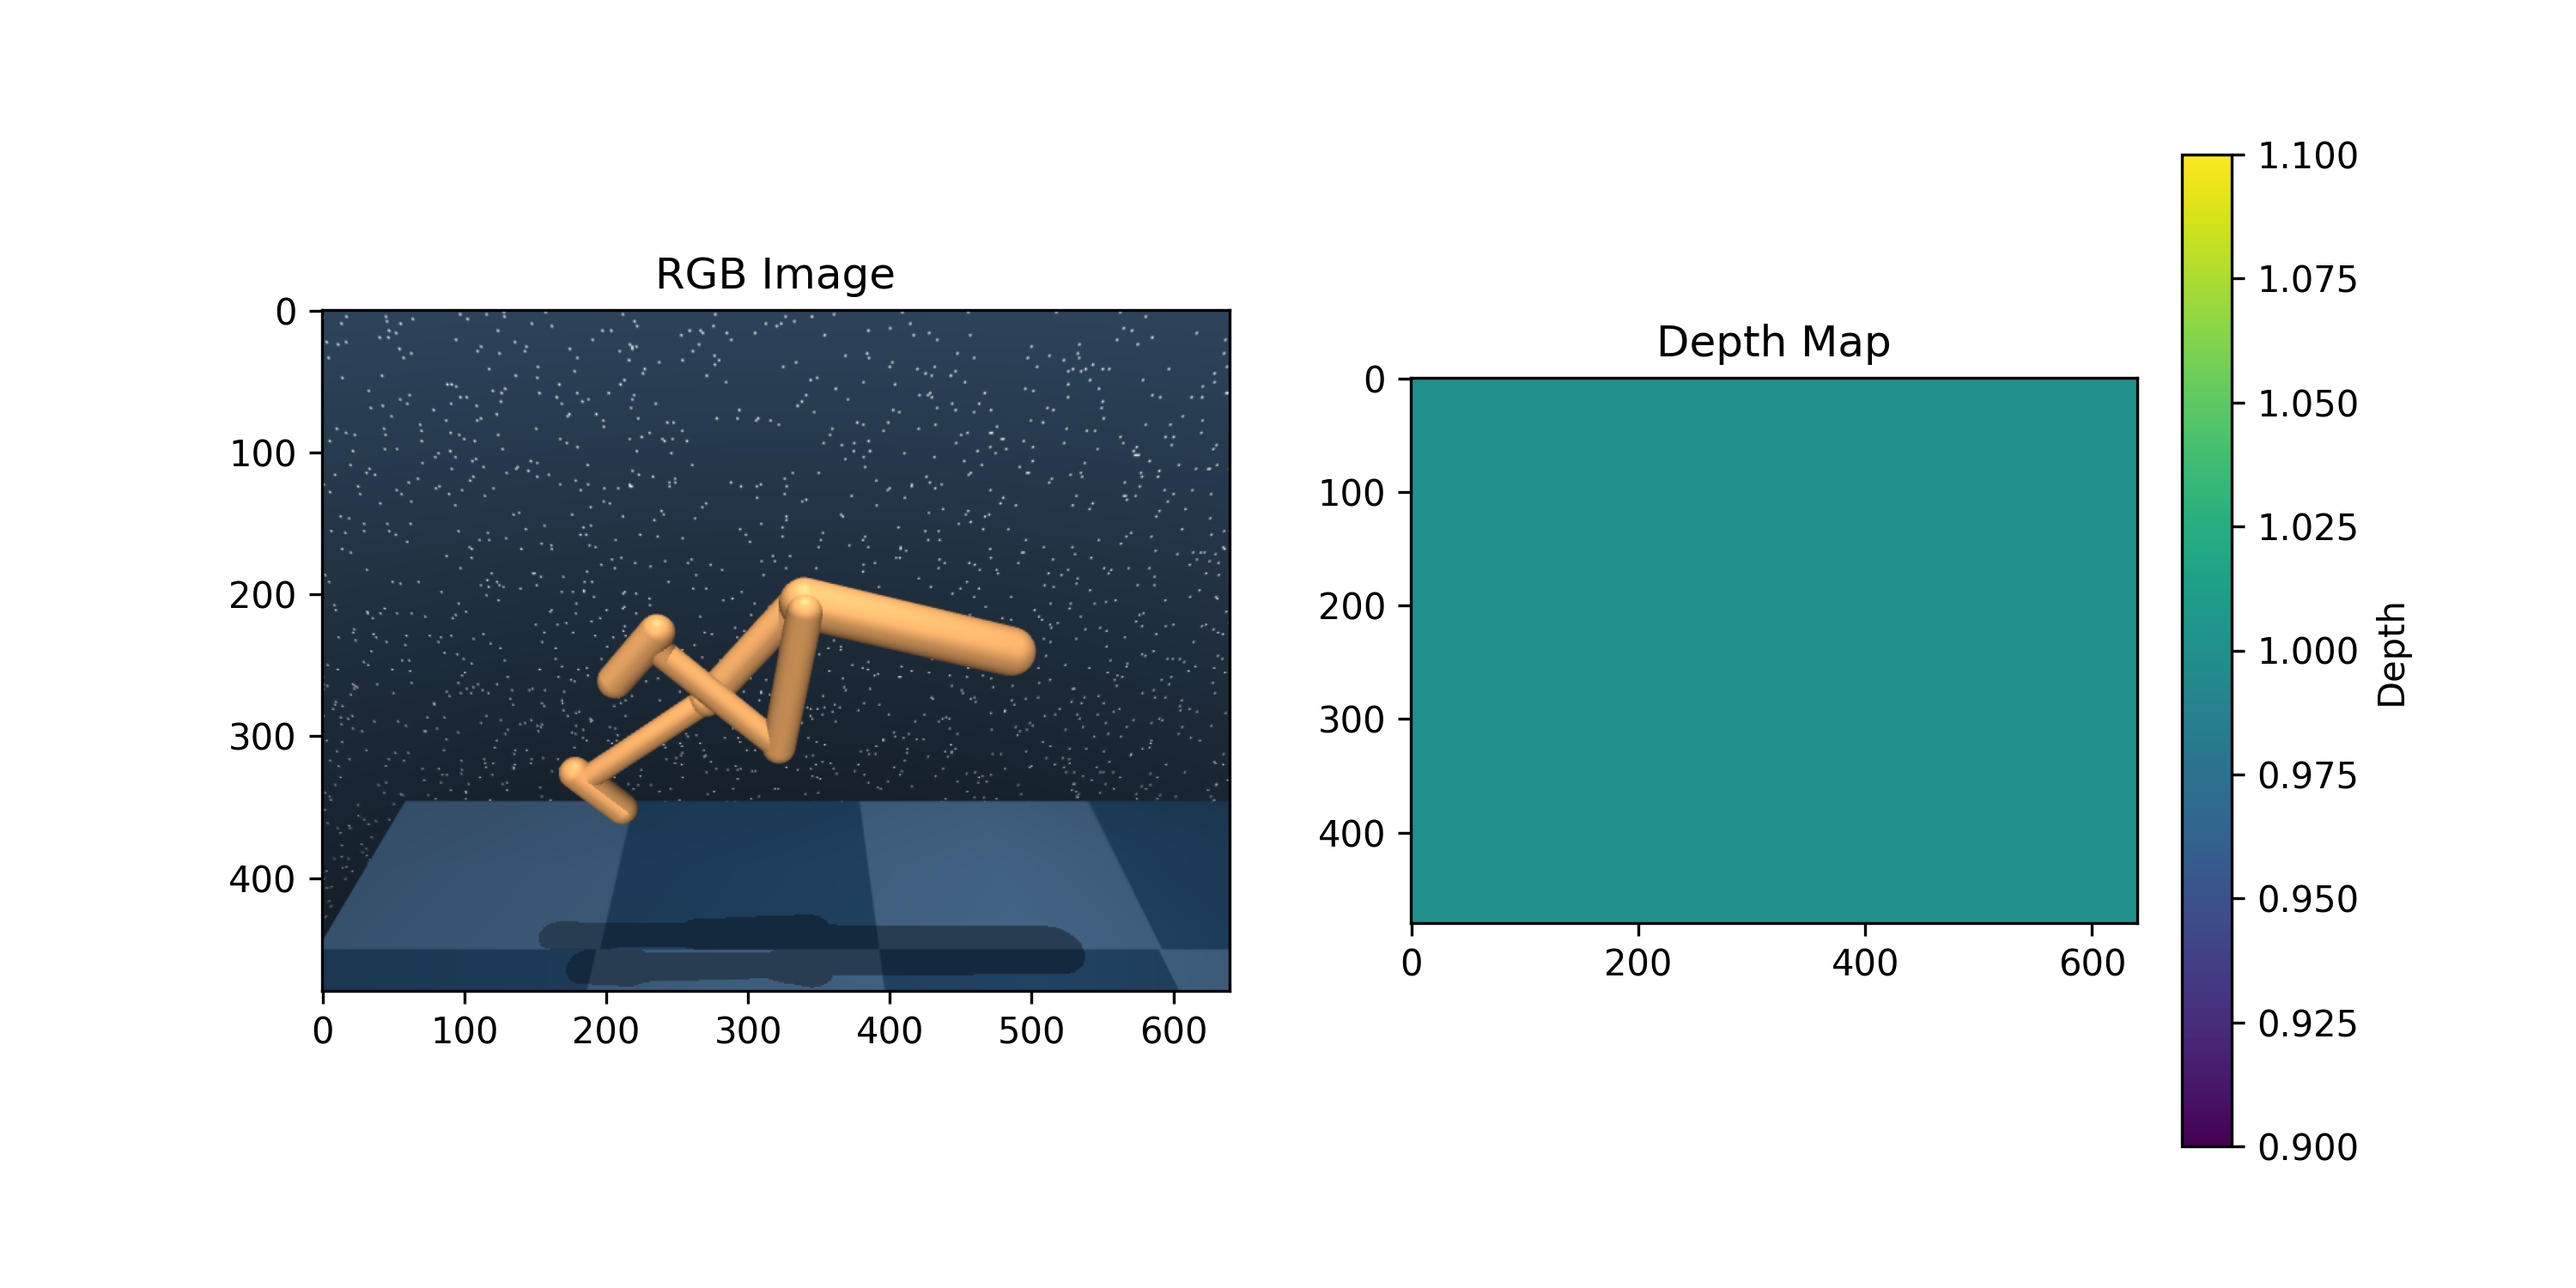
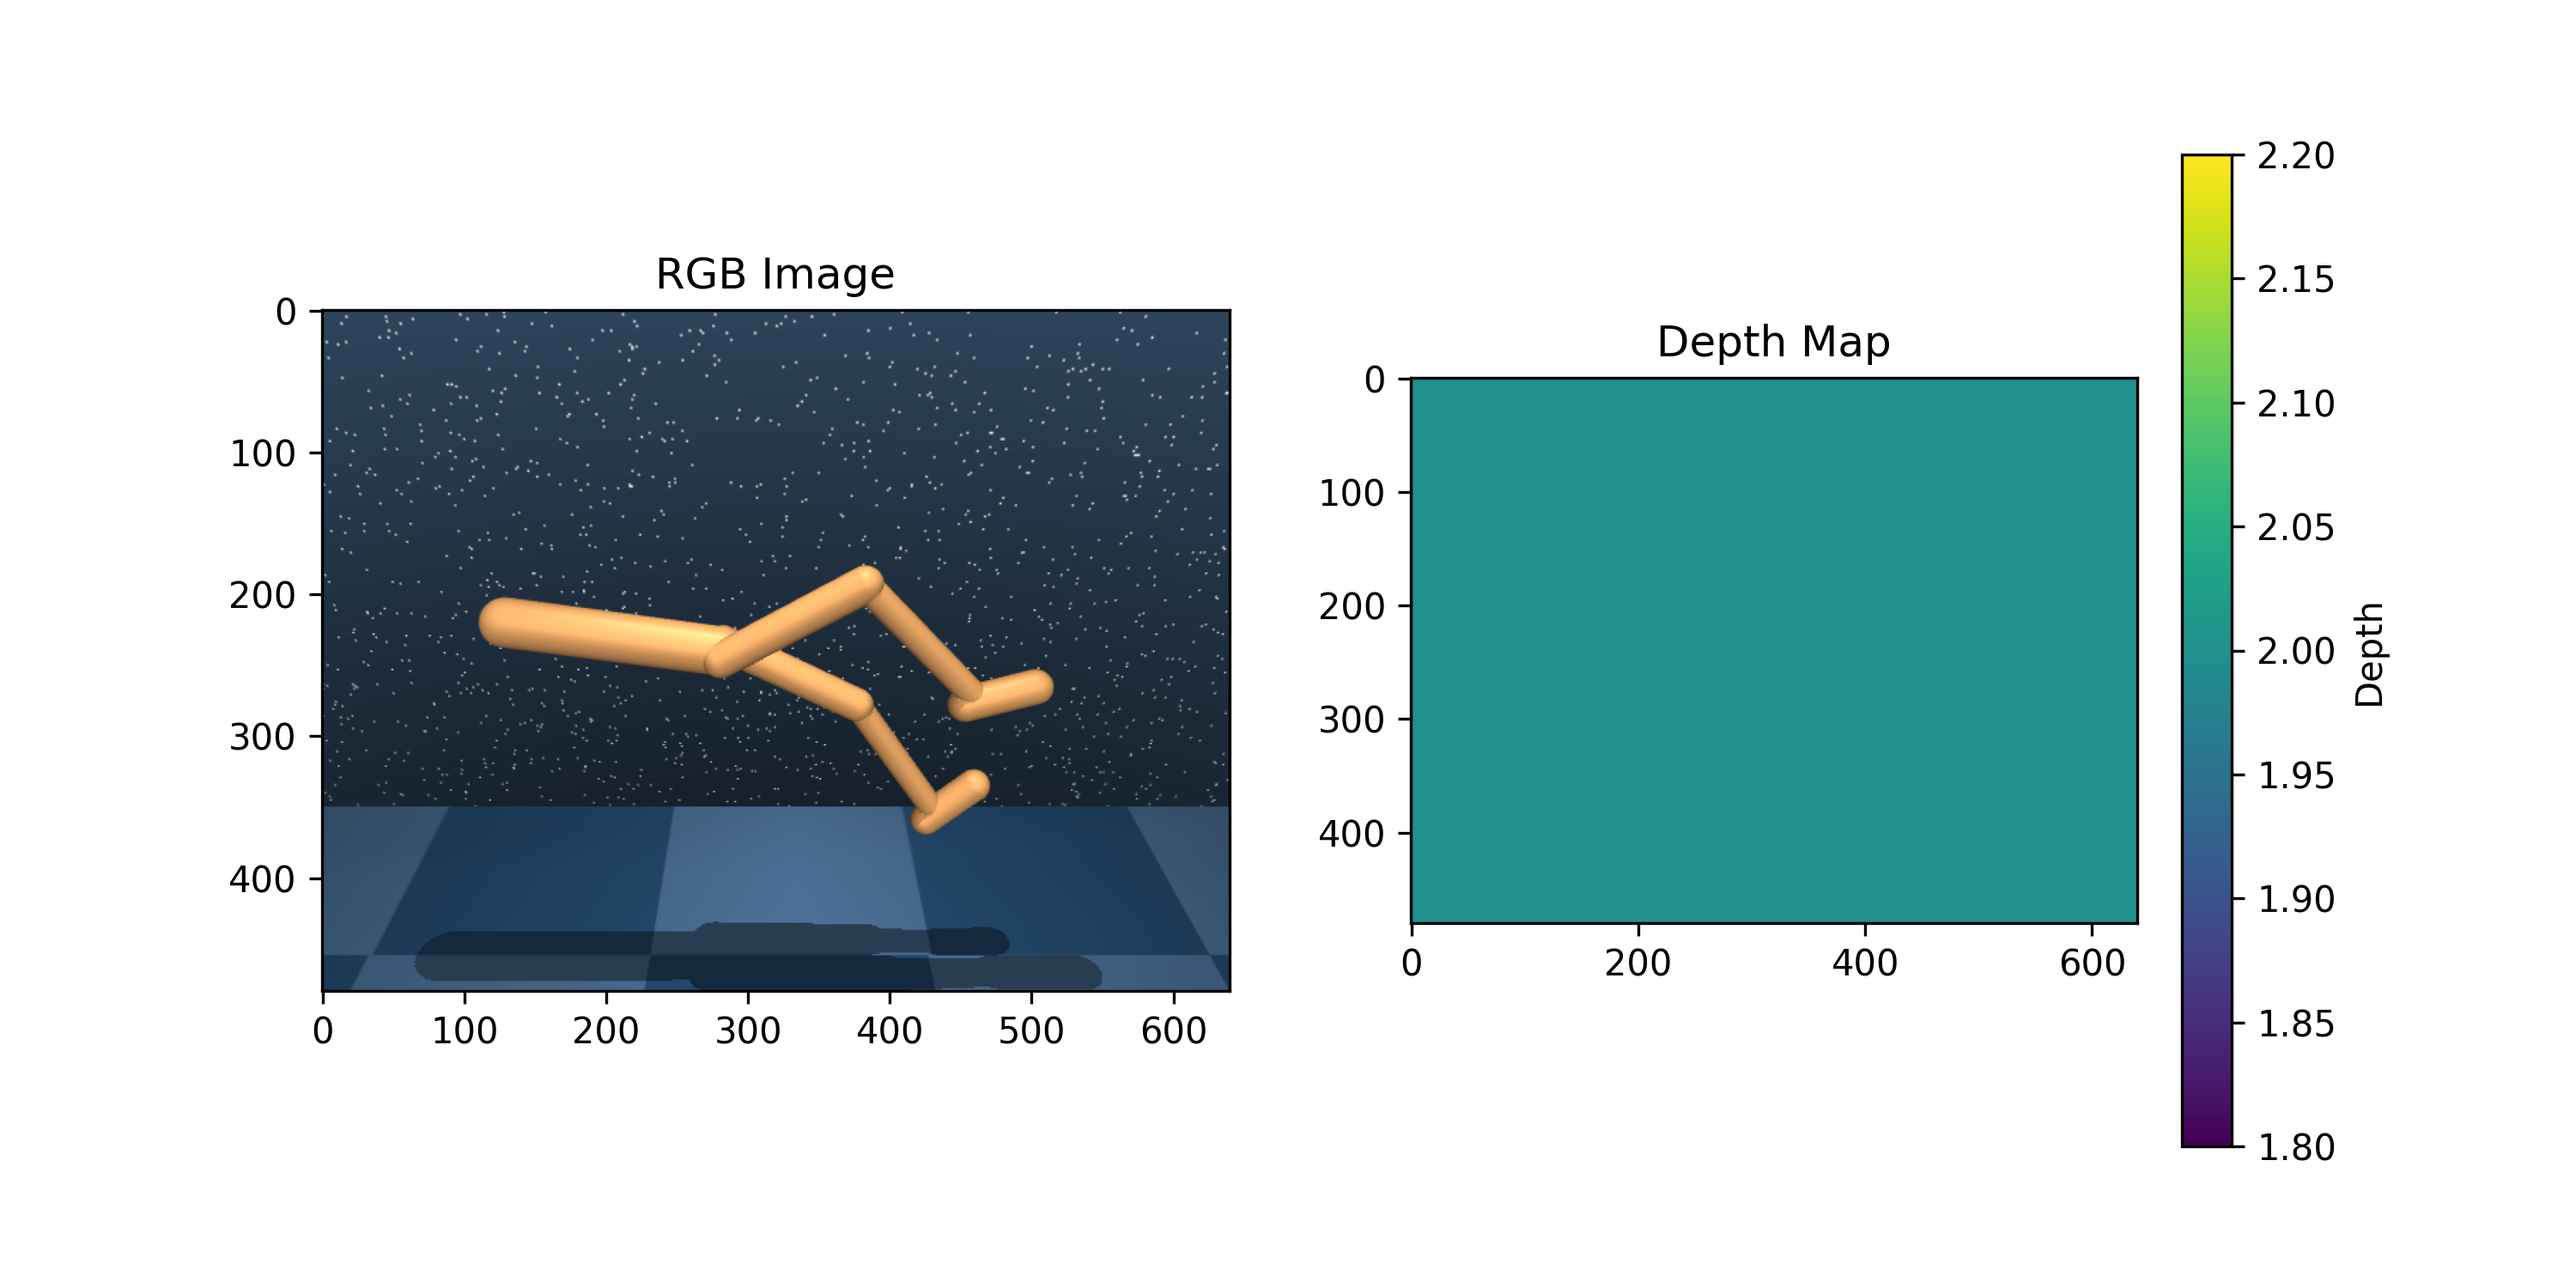
Auto commit

diff --git a/third_test_point_cloud.py b/third_test_point_cloud.py
@@ -20,8 +20,9 @@ print(np.mean(depth_map))
 
 min_depth, max_depth = 1, 2
 clipped_depth = np.clip(depth_map, min_depth, max_depth)
-normalized_depth = (clipped_depth - min_depth) / (max_depth - min_depth)
-depth_map = normalized_depth
+#normalized_depth = (clipped_depth - min_depth) / (max_depth - min_depth)
+#depth_map = normalized_depth
+depth_map = clipped_depth
 
 data = depth_map.flatten()
 counts, bins = np.histogram(data, bins=100)
